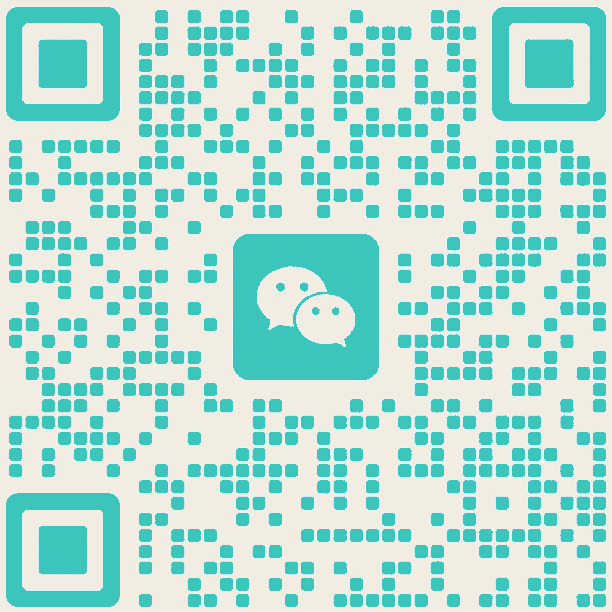
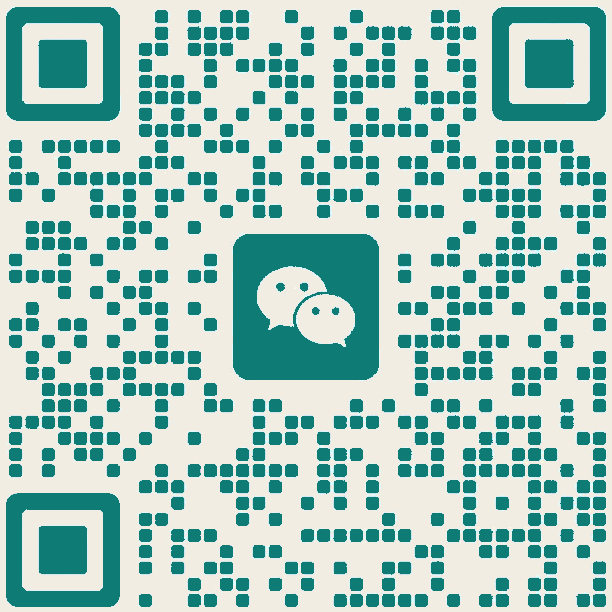
feat(home): refresh portfolio styling and QR code
Enter-Save-Attempt: 1f8db4e6-6f8b-49e4-951d-aeff1fdc02a4

diff --git a/src/pages/Index.tsx b/src/pages/Index.tsx
@@ -204,10 +204,9 @@ const Index = () => <main className="bg-background text-foreground">
         <div className="grid gap-12 md:grid-cols-12 md:gap-8">
           <div className="md:col-span-4">
             <p className="flex items-center gap-3 font-mono text-[11px] uppercase tracking-[0.2em] text-accent" style={{
-            fontSize: "12px",
-            color: "#3BC5BBFF"
+            fontSize: "12px"
           }}>
-              <span className="h-px w-8 bg-[#3BC5BB]" aria-hidden="true" />
+              <span className="h-px w-8 bg-accent" aria-hidden="true" />
               联系我
             </p>
             <p className="mt-4 font-display text-3xl font-semibold uppercase tracking-[-0.04em] md:text-4xl pt-[16px]" style={{

diff --git a/src/index.css b/src/index.css
@@ -96,6 +96,7 @@
   /* Light surfaces invert their selected text to white. */
   .on-light {
     --selection-foreground: 38 38% 92%;
+    --accent: 176 80% 27%;
   }
 }
 
